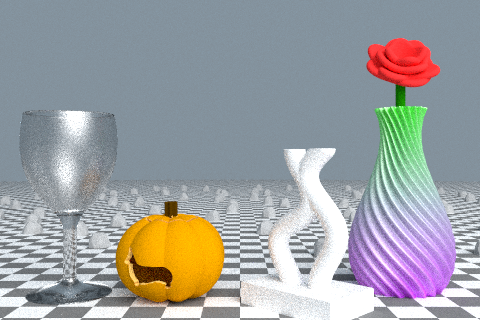
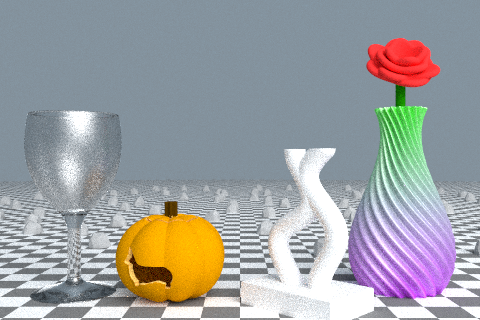
showcase: position wine glass based on center coords

diff --git a/examples/renderings/showcase/constants.go b/examples/renderings/showcase/constants.go
@@ -8,8 +8,8 @@ const (
 	CameraY = -5
 	CameraZ = 4
 
-	WineGlassX = -5.4
-	WineGlassY = 10.0
+	WineGlassX = -5.0
+	WineGlassY = 10.5
 
 	PumpkinX = -2
 	PumpkinY = 10
